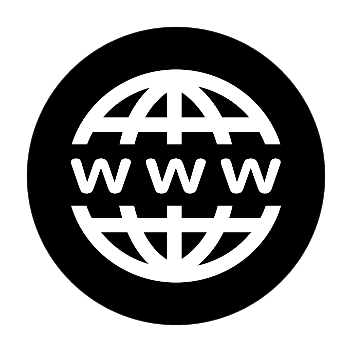
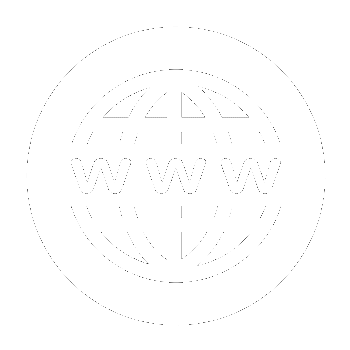
Add files via upload

diff --git a/home.html b/home.html
@@ -4,19 +4,30 @@
     <meta charset="UTF-8">
     <meta name="viewport" content="width=device-width, initial-scale=1.0">
     <title>home</title>
-    <link rel="stylesheet" href="home.css">
+    <link rel="stylesheet" href="https://aarondev-git.github.io/config/home.css">
     <script src="https://aarondev-git.github.io/config/home.js" defer></script>
 </head>
 <body>
     <div class="navbar">
         <div class="top-buttons">
-            <button id="mineloot">Mineloot</button>
-            <button id="bloodloot">Bloodloot</button>
-            <button id="shop">Magasin</button>
-            <button id="settings">Paramètres</button>
+            <button id="mineloot" class="icon-button">
+                <img src="https://aarondev-git.github.io/config/bl.png" alt="Mineloot">
+            </button>
+
+            <button id="bloodloot" class="icon-button">
+                <img src="https://aarondev-git.github.io/config/servers.png" alt="Bloodloot">
+            </button>
+            <button id="shop" class="icon-button">
+                <img src="https://aarondev-git.github.io/config/web.png" alt="Bloodloot">
+            </button>
+            <button id="settings" class="icon-button">
+                <img src="https://aarondev-git.github.io/config/settings.png" alt="Bloodloot">
+            </button>
         </div>
         <div class="bottom-button">
-            <button id="logout">Déconnexion</button>
+            <button id="logout" class="icon-button">
+                <img src="https://aarondev-git.github.io/config/logout.png" alt="Bloodloot">
+            </button>
         </div>
     </div>
     <div class="main">
@@ -31,5 +42,4 @@
         </div>
     </div>
 </body>
-
 </html>

diff --git a/home.css b/home.css
@@ -154,3 +154,26 @@ body {
     font-size: 18px;
     font-weight: bold;
 }
+
+.icon-button {
+    background-color: #44445a;
+    border: none;
+    padding: 10px;
+    margin-bottom: 10px;
+    cursor: pointer;
+    border-radius: 5px;
+    transition: background 0.3s;
+    display: flex;
+    align-items: center;
+    justify-content: center;
+}
+
+.icon-button:hover {
+    background-color: #61617b;
+}
+
+.icon-button img {
+    width: 30px;
+    height: 30px;
+    object-fit: contain;
+}
